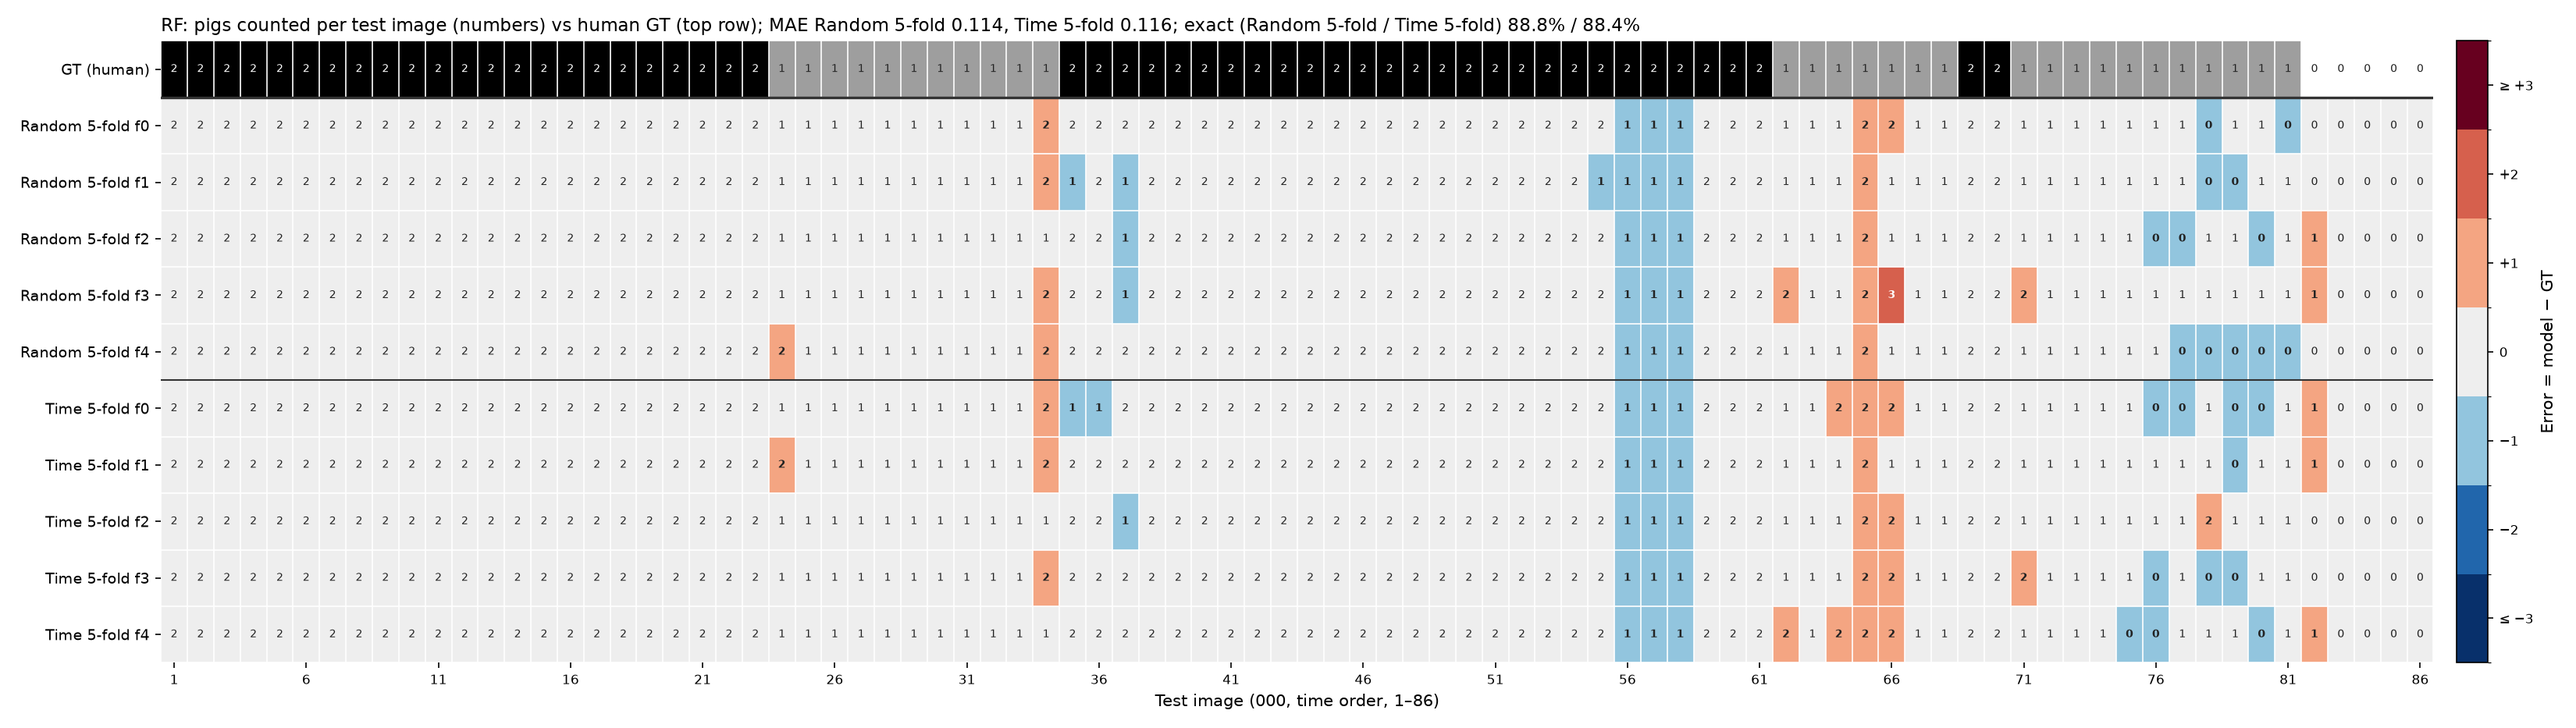
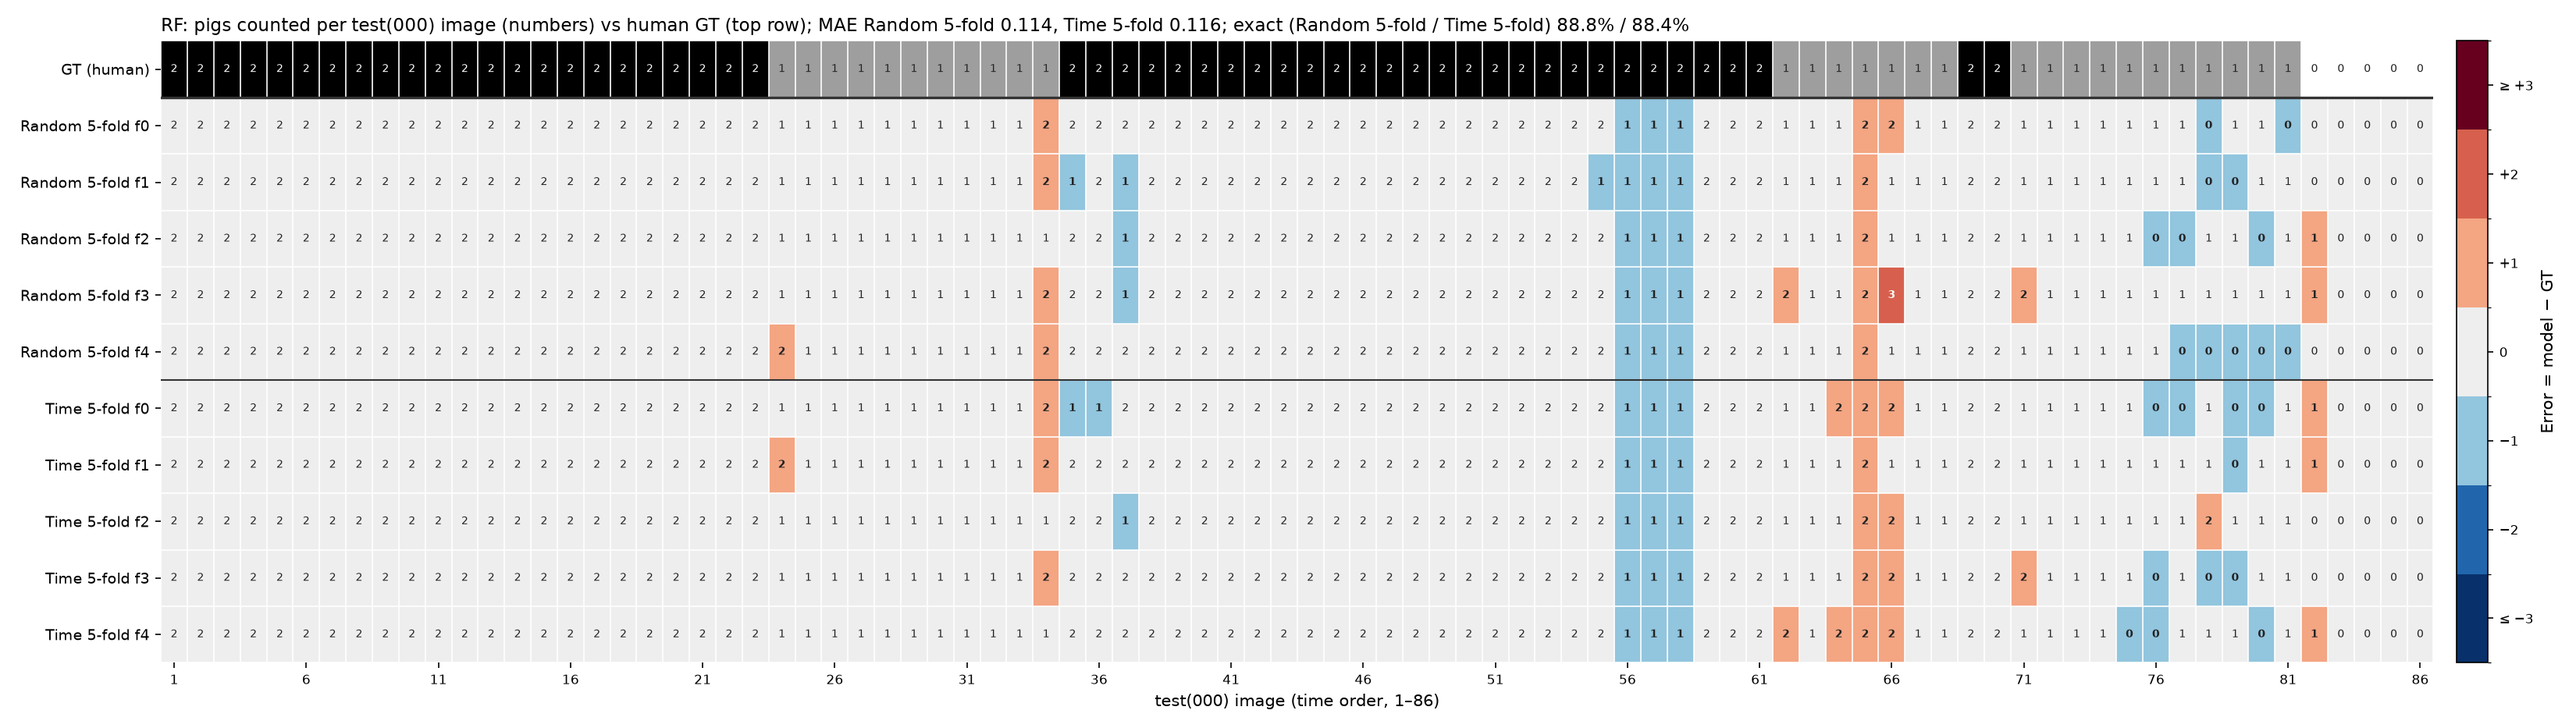
Figures and generated tables: name the test set test(000) everywhere (titles, axes, labels)

Changed region(s): [[0.1561, 0.0, 0.6555, 0.0622], [0.4682, 0.9325, 0.4994, 0.9946]]

diff --git a/counting/scripts/per_image_000.py b/counting/scripts/per_image_000.py
@@ -169,7 +169,7 @@ def plot_e(base, frames):
             ax.set_axisbelow(True)
             ax.spines[["top", "right"]].set_visible(False)
     for ax in axes[-1]:
-        ax.set_xlabel("Test image (000, time order, 1–86)")
+        ax.set_xlabel("test(000) image (time order, 1–86)")
         ax.set_xticks(np.arange(0, 86, 10), [str(i + 1) for i in range(0, 86, 10)])
     from matplotlib.lines import Line2D
     from matplotlib.patches import Patch
@@ -177,7 +177,7 @@ def plot_e(base, frames):
          Line2D([], [], color="#555", lw=1.6, label="Model, mean of 5 folds (method color)"),
          Patch(color="#555", alpha=0.25, label="Range over 5 folds (min–max)")]
     fig.legend(handles=h, loc="lower center", ncol=3, frameon=False, fontsize=9)
-    fig.suptitle("Visiting pigs counted per test image: every method vs human GT", fontsize=12)
+    fig.suptitle("Visiting pigs counted per test(000) image: every method vs human GT", fontsize=12)
     fig.tight_layout(rect=(0, 0.03, 1, 1))
     fig.savefig(OUT / "graph_E_per_image_counts.png", dpi=150)
     plt.close(fig)
@@ -215,13 +215,13 @@ def plot_model(base, fr, m, lab, path):
     ax.axhline(K + 0.5, color="#333", lw=1.0)
     for s in ax.spines.values():
         s.set_visible(False)
-    ax.set_xlabel("Test image (000, time order, 1–86)")
+    ax.set_xlabel("test(000) image (time order, 1–86)")
     cb = fig.colorbar(im, ax=ax, ticks=ERR_LEVELS, fraction=0.015, pad=0.01)
     cb.ax.set_yticklabels(["≤ −3", "−2", "−1", "0", "+1", "+2", "≥ +3"], fontsize=8)
     cb.set_label("Error = model − GT")
     acc = [(rows[r][2] == 0).mean() for r in range(1, R)]
     mae = [np.abs(rows[r][2]).mean() for r in range(1, R)]
-    ax.set_title(f"{lab}: pigs counted per test image (numbers) vs human GT (top row); "
+    ax.set_title(f"{lab}: pigs counted per test(000) image (numbers) vs human GT (top row); "
                  f"MAE Random 5-fold {np.mean(mae[:K]):.3f}, Time 5-fold {np.mean(mae[K:]):.3f}; "
                  f"exact (Random 5-fold / Time 5-fold) {np.mean(acc[:K]) * 100:.1f}% / {np.mean(acc[K:]) * 100:.1f}%", fontsize=11, loc="left")
     fig.tight_layout()
@@ -263,7 +263,7 @@ def plot_f(base, frames):
     im = ax.imshow(E, aspect="auto", cmap=cmap, norm=norm, interpolation="nearest")
     ax.set_yticks(np.arange(n_models), labels, fontsize=6.5)
     ax.set_xticks(np.arange(0, 86, 5), [str(i + 1) for i in range(0, 86, 5)], fontsize=8)
-    ax.set_xlabel("Test image (000, time order, 1–86)")
+    ax.set_xlabel("test(000) image (time order, 1–86)")
     ax.set_xticks(np.arange(-0.5, 86, 1), minor=True)
     ax.set_yticks(np.arange(-0.5, n_models, 1), minor=True)
     ax.grid(which="minor", color="#ffffff", lw=0.6)
@@ -280,7 +280,7 @@ def plot_f(base, frames):
     cb = fig.colorbar(im, cax=cax, ticks=ERR_LEVELS)
     cb.ax.set_yticklabels(["≤ −3", "−2", "−1", "0 (correct)", "+1", "+2", "≥ +3"], fontsize=8)
     cb.set_label("Error = model − GT (pigs)")
-    fig.suptitle("Per-image counting error of all 50 models on test (000): blue = undercount, red = overcount",
+    fig.suptitle("Per-image counting error of all 50 models on test(000): blue = undercount, red = overcount",
                  fontsize=12, y=0.995)
     fig.subplots_adjust(left=0.11, right=0.93, top=0.965, bottom=0.05)
     fig.savefig(OUT / "graph_F_per_image_error_heatmap.png", dpi=150)

diff --git a/counting/scripts/compare_folds.py b/counting/scripts/compare_folds.py
@@ -53,7 +53,7 @@ METHODS = [("geo", "Geo"), ("rf", "RF"), ("rf_geo", "RF+Geo"), ("rf_geo_leg", "R
 RF_FAMILY = ["rf", "rf_geo", "rf_geo_leg"]
 LABEL = dict(METHODS)
 SCHEMES = [("random_5fold", "Random 5-fold", "rk5"), ("time_5fold", "Time 5-fold", "k5")]
-SETS = [("val", "val"), ("test", "test (000)")]
+SETS = [("val", "val"), ("test", "test(000)")]
 COLS = ["count_MAE", "count_RMSE", "count_bias", "exact_rate", "within1_rate", "total_model", "total_human",
         "total_error_pct", "over_frames", "under_frames", "bin_MAE",
         "missed_visiting_undetected", "missed_visiting_judged", "wrong_visiting", "extra_visiting"]
@@ -415,7 +415,7 @@ def plot_b(df, out):
                 ax.text(x, (0 if np.isnan(mval) else mval + (0 if np.isnan(s) else s)) + 0.01,
                         "n/a" if np.isnan(mval) else f"{mval:.3f}", ha="center", va="bottom", fontsize=7)
         ax.set_xticks(range(len(METHODS)), [lab for _, lab in METHODS])
-        ax.set_title(f"{'Validation' if part == 'val' else 'Test (000, 86 images)'}")
+        ax.set_title(f"{'Validation' if part == 'val' else 'test(000), 86 images'}")
         ax.grid(axis="y", color="#e5e5e5")
         ax.set_axisbelow(True)
         ax.spines[["top", "right"]].set_visible(False)
@@ -464,8 +464,8 @@ def plot_a(out, rf_best):
         ax.grid(axis="y", color="#e5e5e5")
         ax.spines[["top", "right"]].set_visible(False)
         ax.legend(frameon=False, fontsize=8, ncol=4, loc="lower left")
-    axes[-1].set_xlabel("Image order in 000 (time →)")
-    fig.suptitle("Per-image visiting count on 000 (line = mean over folds, band = min–max)")
+    axes[-1].set_xlabel("Image order in test(000) (time →)")
+    fig.suptitle("Per-image visiting count on test(000) (line = mean over folds, band = min–max)")
     fig.tight_layout()
     fig.savefig(out / "graph_A_frame_counts_000.png", dpi=150)
     plt.close(fig)
@@ -496,7 +496,7 @@ def plot_c(df, out, rf_best):
                     ax.hlines(gi, xi - 0.45, xi + 0.45, color=COLOR["gt"], lw=2)
             ax.set_xticks(x, [f"{f}\nGT {g:.0f}" if not pd.isna(g) else f for f, g in zip(folds, gt)])
             ax.set_title(f"{'Random' if key == 'random_5fold' else 'Time'} 5-fold · "
-                         f"{'Validation' if part == 'val' else 'Test (000, 86 images)'}", loc="left", fontsize=10)
+                         f"{'Validation' if part == 'val' else 'test(000), 86 images'}", loc="left", fontsize=10)
             ax.set_ylabel("Total visiting pigs counted")
             ymax = np.nanmax(np.r_[sub["total_model"].to_numpy(float), gt.to_numpy(float), 1.0])
             ax.set_ylim(0, ymax * 1.18)
@@ -531,7 +531,7 @@ def plot_d(kp, out):
                    hatch="" if key == "random_5fold" else "///", edgecolor="white" if key == "random_5fold" else "#333",
                    linewidth=0.6, label="Random 5-fold" if key == "random_5fold" else "Time 5-fold")
             ax.errorbar(xs, mean, yerr=sd, fmt="none", capsize=2, elinewidth=0.8, ecolor="#333")
-        ax.set_title("Validation" if part == "val" else "Test (000)", loc="left", fontsize=10)
+        ax.set_title("Validation" if part == "val" else "test(000)", loc="left", fontsize=10)
         ax.set_ylabel("PCK@0.1")
         ax.set_ylim(0, 1.05)
         ax.grid(axis="y", color="#e5e5e5")

diff --git a/counting/scripts/paper_tables.py b/counting/scripts/paper_tables.py
@@ -39,7 +39,7 @@ K = 5
 METHODS = [("geo", "Geo"), ("rf", "RF"), ("rf_geo", "RF+Geo"), ("rf_geo_leg", "RF+Geo+Leg"), ("yolo", "YOLO")]
 LABEL = dict(METHODS)
 SCHEMES = [("random_5fold", "Random 5-fold", "rk5"), ("time_5fold", "Time 5-fold", "k5")]
-SETS = [("test", "Test (000)"), ("val", "Validation")]
+SETS = [("test", "test(000)"), ("val", "Validation")]
 RF_BEST = "rf_geo_leg"   # 두 분할 모두 5-fold 평균 val MAE 최소 (fold_study.md 1장)
 
 
@@ -183,7 +183,7 @@ def main():
                        "better": int((d > 0).sum()), "same": int((d == 0).sum()), "worse": int((d < 0).sum()), "p": pv})
     w = pd.DataFrame(w_rows)
     w.to_csv(OUT / "wilcoxon.csv", index=False, encoding="utf-8-sig")
-    md += ["## Table 4. Paired comparison on test images (Wilcoxon signed-rank, n = 86)", "",
+    md += ["## Table 4. Paired comparison on test(000) images (Wilcoxon signed-rank, n = 86)", "",
            "| Comparison (A vs B) | Split | ΔMAE (B − A) | A better / same / B better (images) | p |",
            "|---|---|---|---|---|"]
     for _, r in w.iterrows():
@@ -194,7 +194,7 @@ def main():
            "사진끼리 독립이 아니라 p값은 참고용.", ""]
 
     # 표 5: 오류 분해 (test, 개체 수)
-    md += ["## Table 5. Error decomposition on test (visiting pigs per fold)", "",
+    md += ["## Table 5. Error decomposition on test(000) (visiting pigs per fold)", "",
            "| Split | Method | Counted / GT | Missed (undetected) | Missed (judged other) | Other → visiting | "
            "Unlabeled → visiting |", "|---|---|---|---|---|---|---|"]
     for key, slab, _ in SCHEMES:
@@ -242,7 +242,7 @@ def main():
 
     md += ["## Figures", "",
            "| Figure | File | Caption |", "|---|---|---|",
-           "| A | `../graph_A_frame_counts_000.png` | Per-image visiting count on 000 (GT, Geo, RF best, YOLO; mean over 5 folds, band = min–max) |",
+           "| A | `../graph_A_frame_counts_000.png` | Per-image visiting count on test(000) (GT, Geo, RF best, YOLO; mean over 5 folds, band = min–max) |",
            "| B | `../graph_B_mae_random_vs_time.png` | Per-image count MAE by method, Random 5-fold vs Time 5-fold (mean ± SD) |",
            "| C | `../graph_C_total_counts.png` | Total visiting pigs counted per fold vs human GT |",
            "| D | `../graph_D_keypoint_pck.png` | Per-keypoint PCK@0.1, Random 5-fold vs Time 5-fold |", ""]

diff --git a/counting/scripts/error_cases.py b/counting/scripts/error_cases.py
@@ -194,7 +194,7 @@ def plot_all_models(no, stem, img_path, gt_rows, cams, out_path):
          Line2D([], [], color="#bbbbbb", lw=1.0, ls=":", label="Feeder ROI")]
     fig.legend(handles=h, loc="lower center", ncol=4, frameon=False, fontsize=9)
     n_wrong = sum(s["counted_visiting"] != n_vis for s in summary)
-    fig.suptitle(f"Test image #{no}: all 10 pose models (+ RF+Geo+Leg), cropped around the feeder — "
+    fig.suptitle(f"test(000) image #{no}: all 10 pose models (+ RF+Geo+Leg), cropped around the feeder — "
                  f"count wrong in {n_wrong} of 10 (red titles)", fontsize=11)
     fig.tight_layout(rect=(0, 0.04, 1, 0.97))
     fig.savefig(out_path, dpi=150)
@@ -271,7 +271,7 @@ def main():
          Line2D([], [], color=C_OTHER, lw=1.0, label="Model: other"),
          Line2D([], [], color="#bbbbbb", lw=1.2, ls=":", label="Feeder ROI")]
     fig.legend(handles=h, loc="lower center", ncol=5, frameon=False, fontsize=9)
-    fig.suptitle("Error cases on test (000): visiting pigs missed by the pose model in crowded / occluded feeder scenes",
+    fig.suptitle("Error cases on test(000): visiting pigs missed by the pose model in crowded / occluded feeder scenes",
                  fontsize=11)
     fig.tight_layout(rect=(0, 0.03, 1, 0.98))
     fig.savefig(OUT / "error_cases.png", dpi=150)

diff --git a/counting/reports/fold_study/fold_study.md b/counting/reports/fold_study/fold_study.md
@@ -36,7 +36,7 @@ RF best (5-fold 평균 val MAE 최소, test는 보지 않음): Random 5-fold →
 | RF+Geo+Leg | 0.345 | 0.383 | 0.735 | 0.368 | 0.612 | 0.489 ± 0.175 |
 | YOLO | 0.436 | 0.383 | 0.771 | 0.593 | 0.500 | 0.537 ± 0.153 |
 
-**Random 5-fold · test (000) · MAE**
+**Random 5-fold · test(000) · MAE**
 
 | 방법 | f0 | f1 | f2 | f3 | f4 | 평균 ± 표준편차 |
 |---|---|---|---|---|---|---|
@@ -46,7 +46,7 @@ RF best (5-fold 평균 val MAE 최소, test는 보지 않음): Random 5-fold →
 | RF+Geo+Leg | 0.151 | 0.140 | 0.105 | 0.070 | 0.140 | 0.121 ± 0.033 |
 | YOLO | 0.221 | 0.174 | 0.419 | 0.477 | 0.209 | 0.300 ± 0.137 |
 
-**Random 5-fold · test (000) · RMSE**
+**Random 5-fold · test(000) · RMSE**
 
 | 방법 | f0 | f1 | f2 | f3 | f4 | 평균 ± 표준편차 |
 |---|---|---|---|---|---|---|
@@ -76,7 +76,7 @@ RF best (5-fold 평균 val MAE 최소, test는 보지 않음): Random 5-fold →
 | RF+Geo+Leg | 0.408 | 0.748 | 0.593 | 0.465 | 0.548 | 0.552 ± 0.131 |
 | YOLO | 0.408 | 0.939 | 0.771 | 0.593 | 0.500 | 0.642 ± 0.213 |
 
-**Time 5-fold · test (000) · MAE**
+**Time 5-fold · test(000) · MAE**
 
 | 방법 | f0 | f1 | f2 | f3 | f4 | 평균 ± 표준편차 |
 |---|---|---|---|---|---|---|
@@ -86,7 +86,7 @@ RF best (5-fold 평균 val MAE 최소, test는 보지 않음): Random 5-fold →
 | RF+Geo+Leg | 0.140 | 0.105 | 0.081 | 0.105 | 0.116 | 0.109 ± 0.021 |
 | YOLO | 0.151 | 0.279 | 0.233 | 0.244 | 0.209 | 0.223 ± 0.048 |
 
-**Time 5-fold · test (000) · RMSE**
+**Time 5-fold · test(000) · RMSE**
 
 | 방법 | f0 | f1 | f2 | f3 | f4 | 평균 ± 표준편차 |
 |---|---|---|---|---|---|---|
@@ -155,7 +155,7 @@ RF best (5-fold 평균 val MAE 최소, test는 보지 않음): Random 5-fold →
 | RF+Geo+Leg ★ | 79 (+3.9%) | 53 (-5.4%) | 79 (+8.2%) | 55 (+1.9%) | 51 (-8.9%) | 63.4 ± 14.3 | -0.1 ± 7.0% |
 | YOLO | – | – | – | – | – | – | – |
 
-**Random 5-fold · test (000)**
+**Random 5-fold · test(000)**
 
 | 방법 | f0 | f1 | f2 | f3 | f4 | 마릿수 평균 ± 표준편차 | 총 마릿수 오차 평균 ± 표준편차 |
 |---|---|---|---|---|---|---|---|
@@ -177,7 +177,7 @@ RF best (5-fold 평균 val MAE 최소, test는 보지 않음): Random 5-fold →
 | RF+Geo+Leg ★ | 103 (-1.0%) | 58 (+5.5%) | 43 (-2.3%) | 63 (+3.3%) | 55 (+7.8%) | 64.4 ± 22.8 | +2.7 ± 4.3% |
 | YOLO | – | – | – | – | – | – | – |
 
-**Time 5-fold · test (000)**
+**Time 5-fold · test(000)**
 
 | 방법 | f0 | f1 | f2 | f3 | f4 | 마릿수 평균 ± 표준편차 | 총 마릿수 오차 평균 ± 표준편차 |
 |---|---|---|---|---|---|---|---|
@@ -223,24 +223,24 @@ val은 conf를 같은 valid에서 골라 낙관적임. 값 출처: 수아 노션
 | Random 5-fold | val | f3 | 0.55 | 0.962 | 0.896 | 0.944 | 0.742 | 0.297 | 0.593 |
 | Random 5-fold | val | f4 | 0.65 | 0.925 | 0.942 | 0.950 | 0.703 | 0.250 | 0.500 |
 | Random 5-fold | val | 평균 ± 표준편차 | 0.48 ± 0.15 | 0.939 ± 0.019 | 0.924 ± 0.020 | 0.953 ± 0.009 | 0.713 ± 0.024 | 0.251 ± 0.128 | 0.537 ± 0.153 |
-| Random 5-fold | test (000) | f0 | 0.25 | 0.927 | 0.833 | 0.839 | 0.588 | 0.221 | 0.470 |
-| Random 5-fold | test (000) | f1 | 0.45 | 0.941 | 0.886 | 0.899 | 0.622 | 0.174 | 0.418 |
-| Random 5-fold | test (000) | f2 | 0.50 | 0.870 | 0.792 | 0.836 | 0.565 | 0.419 | 0.647 |
-| Random 5-fold | test (000) | f3 | 0.55 | 0.848 | 0.867 | 0.892 | 0.620 | 0.477 | 0.707 |
-| Random 5-fold | test (000) | f4 | 0.65 | 0.912 | 0.835 | 0.869 | 0.590 | 0.209 | 0.482 |
-| Random 5-fold | test (000) | 평균 ± 표준편차 | 0.48 ± 0.15 | 0.900 ± 0.039 | 0.843 ± 0.036 | 0.867 ± 0.029 | 0.597 ± 0.024 | 0.300 ± 0.137 | 0.545 ± 0.125 |
+| Random 5-fold | test(000) | f0 | 0.25 | 0.927 | 0.833 | 0.839 | 0.588 | 0.221 | 0.470 |
+| Random 5-fold | test(000) | f1 | 0.45 | 0.941 | 0.886 | 0.899 | 0.622 | 0.174 | 0.418 |
+| Random 5-fold | test(000) | f2 | 0.50 | 0.870 | 0.792 | 0.836 | 0.565 | 0.419 | 0.647 |
+| Random 5-fold | test(000) | f3 | 0.55 | 0.848 | 0.867 | 0.892 | 0.620 | 0.477 | 0.707 |
+| Random 5-fold | test(000) | f4 | 0.65 | 0.912 | 0.835 | 0.869 | 0.590 | 0.209 | 0.482 |
+| Random 5-fold | test(000) | 평균 ± 표준편차 | 0.48 ± 0.15 | 0.900 ± 0.039 | 0.843 ± 0.036 | 0.867 ± 0.029 | 0.597 ± 0.024 | 0.300 ± 0.137 | 0.545 ± 0.125 |
 | Time 5-fold | val | f0 | 0.65 | 0.941 | 0.912 | 0.945 | 0.645 | 0.167 | 0.408 |
 | Time 5-fold | val | f1 | 0.50 | 0.883 | 0.756 | 0.843 | 0.570 | 0.588 | 0.939 |
 | Time 5-fold | val | f2 | 0.35 | 0.969 | 0.782 | 0.829 | 0.560 | 0.432 | 0.771 |
 | Time 5-fold | val | f3 | 0.25 | 0.920 | 0.873 | 0.956 | 0.648 | 0.297 | 0.593 |
 | Time 5-fold | val | f4 | 0.70 | 0.890 | 0.866 | 0.920 | 0.628 | 0.250 | 0.500 |
 | Time 5-fold | val | 평균 ± 표준편차 | 0.49 ± 0.19 | 0.921 ± 0.036 | 0.838 ± 0.066 | 0.899 ± 0.059 | 0.610 ± 0.042 | 0.347 ± 0.166 | 0.642 ± 0.213 |
-| Time 5-fold | test (000) | f0 | 0.65 | 0.920 | 0.847 | 0.879 | 0.603 | 0.151 | 0.389 |
-| Time 5-fold | test (000) | f1 | 0.50 | 0.853 | 0.896 | 0.876 | 0.610 | 0.279 | 0.550 |
-| Time 5-fold | test (000) | f2 | 0.35 | 0.923 | 0.852 | 0.892 | 0.583 | 0.233 | 0.482 |
-| Time 5-fold | test (000) | f3 | 0.25 | 0.922 | 0.862 | 0.871 | 0.585 | 0.244 | 0.494 |
-| Time 5-fold | test (000) | f4 | 0.70 | 0.934 | 0.839 | 0.878 | 0.621 | 0.209 | 0.457 |
-| Time 5-fold | test (000) | 평균 ± 표준편차 | 0.49 ± 0.19 | 0.910 ± 0.033 | 0.859 ± 0.022 | 0.879 ± 0.008 | 0.600 ± 0.016 | 0.223 ± 0.048 | 0.475 ± 0.059 |
+| Time 5-fold | test(000) | f0 | 0.65 | 0.920 | 0.847 | 0.879 | 0.603 | 0.151 | 0.389 |
+| Time 5-fold | test(000) | f1 | 0.50 | 0.853 | 0.896 | 0.876 | 0.610 | 0.279 | 0.550 |
+| Time 5-fold | test(000) | f2 | 0.35 | 0.923 | 0.852 | 0.892 | 0.583 | 0.233 | 0.482 |
+| Time 5-fold | test(000) | f3 | 0.25 | 0.922 | 0.862 | 0.871 | 0.585 | 0.244 | 0.494 |
+| Time 5-fold | test(000) | f4 | 0.70 | 0.934 | 0.839 | 0.878 | 0.621 | 0.209 | 0.457 |
+| Time 5-fold | test(000) | 평균 ± 표준편차 | 0.49 ± 0.19 | 0.910 ± 0.033 | 0.859 ± 0.022 | 0.879 ± 0.008 | 0.600 ± 0.016 | 0.223 ± 0.048 | 0.475 ± 0.059 |
 
 ## 9. 000 사진별 카운트 csv
 
